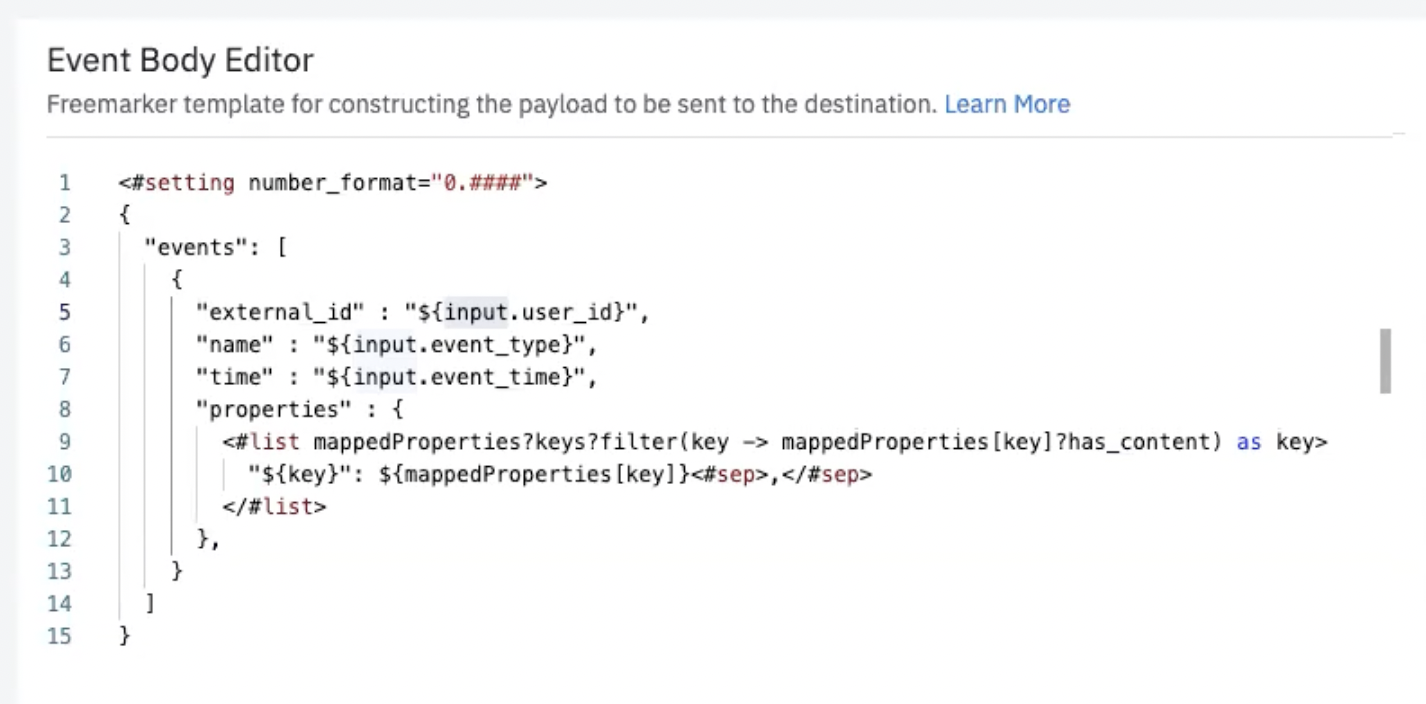
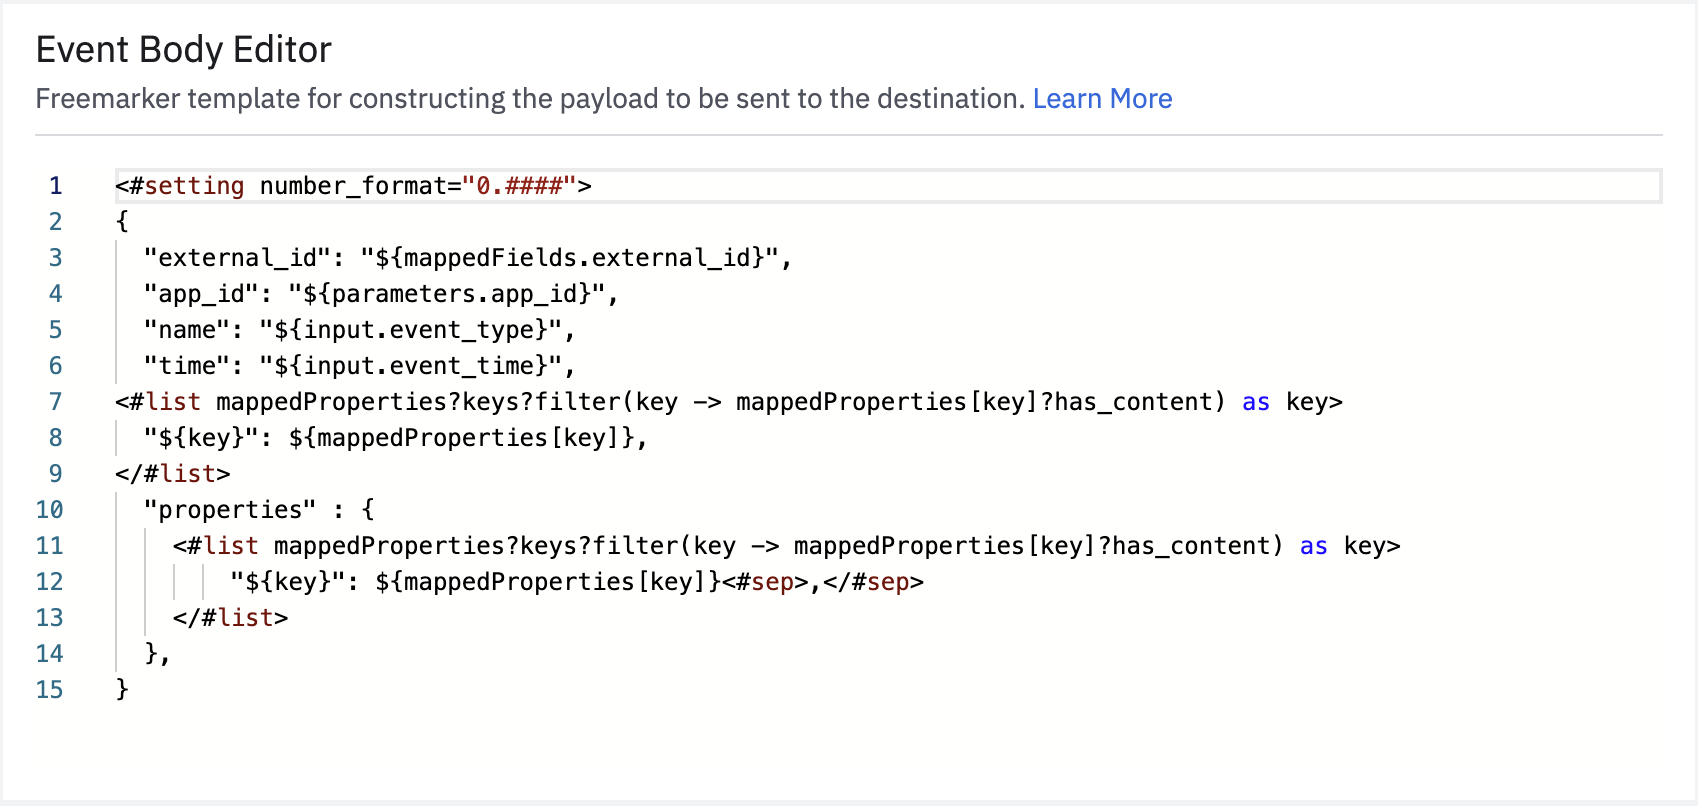
update SPF meaning, add Mapped Fields, update code examples

Changed region(s): [[0.0, 0.2188, 0.9257, 0.9062], [0.0, 0.0312, 0.7714, 0.1875], [0.9565, 0.4688, 0.9874, 0.5625]]

diff --git a/docs/partners/event-streaming-integration-guide.md b/docs/partners/event-streaming-integration-guide.md
@@ -1,6 +1,6 @@
 ---
 title: Create an Event Streaming Integration
-description: This guide walks through the basics of creating a event streaming integration with Amplitude. 
+description: This guide walks through the basics of creating a event streaming integration with Amplitude.
 template: guide-last.html
 status: new
 ---
@@ -13,19 +13,19 @@ This guide walks through the basics of creating your own Event Streaming tile in
 
 ### Supported features
 
-- **Event Forwarding:**  Forwarding Amplitude Track calls to a destination is called *event forwarding*. Amplitude forwards both the 'raw' event and merged or [transformed events](https://help.amplitude.com/hc/en-us/articles/5913315221915-Transformations-Retroactively-modify-your-event-data-structure). Amplitude also sends the `user_id`, `event_name`, and `created_at` to your destination.
-- **User Properties Types:** Amplitude sends all user, event, and group properties along with the event.
-- **Event Selective Property Forwarding:** Amplitude has fine-grain filtering options that allow you to choose which events to send based on selecting event types and property conditions.
+- **Event Forwarding:**  Forwarding Amplitude Track calls to a destination is named *event forwarding*. Amplitude forwards both the 'raw' event and merged or [transformed events](https://help.amplitude.com/hc/en-us/articles/5913315221915-Transformations-Retroactively-modify-your-event-data-structure). Amplitude also sends the `event_name` and `created_at` to your destination.
+- **Event Filtering:** Amplitude has fine-grain filtering options that allow the user to choose which events to send based on selecting event types and property conditions.
+- **Event Selective Property Forwarding:** The user can select which event, user, or group properties to include in the payload of forwarded events.
 - **Regular User Identify Forwarding (creating and updating a user):** Enable Identify Forwarding feature for your destination. This allows the destination to send users and their properties that are created under the Identify API in real time. See the [Identify documentation](../analytics/apis/identify-api) for more information.
+- **User Property Mapping** The user is able to select an Amplitude user property to map to a field in your destination. This also allows for custom user identifiers.
 
 ### Limitations
 
 - **User selective property forwarding:** Forwarding certain event, group, or user properties from an event based on an allow-list isn't supported.
-- **User identifiers:** The only currently supported user identifier is the Amplitude `user_id`.
-- **Mapping fields:** You can't currently map fields.
-- **Forwarding arrays or object type properties:** You can't currently arrays or object type properties. For example, you can't forward a property called cities which is an array of cities
+- **Forwarding arrays or object type properties:** You can't currently arrays or object type properties. For example, you can't forward a property called cities which is an array of cities.
 - **Change-based user Identify Forwarding:** Amplitude doesn't automatically generate and forward an identify event when there's a user property change during the event ingestion.
-- **Property Value Transformation:** You can't currently transform a property value or type to another value or type for example, Amplitude int `user_id` -> Destination string `user_id`, formatting such as encoding and datetime format transformations.
+- **Property Value Transformation:** You can't currently transform a property value or type to another value or type if the type of the original event isn't known.
+- **Selective Property Forwarding Type:** All custom properties forwarded by the user are currently sent as strings.
 - **OAuth Authentication:** Amplitude doesn't support OAuth, so partners need to generate you API key.
 - **Event Category name:** Amplitude doesn't send the Event Category name.
 
@@ -34,7 +34,7 @@ This guide walks through the basics of creating your own Event Streaming tile in
 1. **Freemarker:** Familiarize yourself with [Freemarker](https://freemarker.apache.org/) is the template that Amplitude uses to send events.
 2. **Rate limits:** Make sure your rate limits are as high as possible to minimize throttling. For example, Amplitude respects the rate limit that [Braze](../destinations/braze/) communicates: 50,000 requests per minute for event tracking. Amplitude has a retry mechanism with exponential backoff that tries 9 times over 4 hours. This process should resolve temporary throttling.
 3. **Event limits:** Make sure that your event size limit is flexible enough for customer use cases. 
-   
+
     ???example "Event limits example (click to expand)"
 
         For example, [Customer.io](../destinations/customerio/) events have the following limits:
@@ -42,7 +42,7 @@ This guide walks through the basics of creating your own Event Streaming tile in
         - Maximum length of Customer ID: 150 bytes
         - Maximum number of Unique Identify attributes: 300
         - Maximum size of event data: 100K bytes
-        
+
         For example, [Intercom](../destinations/intercom/) has a limit of 120 Event Types and 20 meta (which are event properties) per event types. Currently you must use the event filter to select the specific events they want to forward from Amplitude to Intercom.
 
 4. **Authentication method:** Amplitude doesn't support OAuth, so partners need to generate their API key.
@@ -50,14 +50,14 @@ This guide walks through the basics of creating your own Event Streaming tile in
 
 ## Integration setup
 
-The first step is to configure the integration tile that appears on the Destinations page in Amplitude. 
+The first step is to configure the integration tile that appears on the Destinations page in Amplitude.
 
 1. From the Integration Portal page (**Settings > Developer Portal**), click **Add New Destination**.
 2. Under **Select Destination Type**, choose **Event Streaming**.
 
-### Example setup modal 
+### Example setup modal
 
-To see an example of what a finished setup modal looks like in Amplitude, navigate to **Data Destinations** in Amplitude, and add any integration marked with Event Streaming. 
+To see an example of what a finished setup modal looks like in Amplitude, navigate to **Data Destinations** in Amplitude, and add any integration marked with Event Streaming.
 
 ## Configuration
 
@@ -87,6 +87,17 @@ You must add connection information before you can configure the specifics of yo
 This section allows you to define the parameters that can be used in the URL, headers and event body.
 
 - **Parameter Display Name:** This is fully customizable, so use something descriptive because this is the display name in Amplitude. For example, "REST API Endpoint & REST API Key".
+- **Parameter Name:** This is the ID that's used in the payload, URL, or header corresponding to this parameter.
+
+## Customize user properties mapping
+
+This section allows you to define fields in the payload that the user can populate with an Amplitude user property of their choice.
+For example, most destinations use a field here for their user identifier and set it as required.
+
+  ![screenshot of the customize user properties mapping section](../assets/images/partners/partner-customize-user-properties-mapping.png)
+
+- **Destination Property Name:** This acts as both the field name and display name.
+- **Required Checkbox:** If this is checked, the user can't forward events to your destination until they have configured this field.
 
 ## Customize events payload
 
@@ -112,28 +123,32 @@ Use the Customize Events Payload section to customize what's included in your pa
   "app_id": "some app id",
   "name": "test_event_type",
   "time": "2022-01-06T17:29:04Z",
+  "optional_property": "some Amplitude property",
+  "optional_property_again": "some Amplitude property again",
   "properties" : {
         "test_nested_property": "some nested property",
         "library": "some library",
         "user_property_1": "some user property value 1"
   },
-  "_update_existing_only": false // this is a Braze option
 },
 
 ```
 
 ## Event body editor
 
-This section is a Freemarker template that allows you to construct the payload that's sent to your destination. 
+This section is a Freemarker template that allows you to construct the payload that's sent to your destination.
+The template in the screenshot can correspond to the above payload depending on how the user configures their sync and based on the *Customize user properties mapping* section above.
 
 ![screenshot of the event body editor](../assets/images/partners/partner-event-body-editor.png)
 
 - **Input:** This object includes the forwarded event and its fields, and is enriched with the user’s other events and user properties. These fields aren't guaranteed and rely on the way each user has instrumented their events. Amplitude suggests keeping the input fields usage to minimum and just use the most common ones such as: `user_id`, `event_type`, `event_time`.
-- **MappedProperties:** A key-value pair of event or user properties that the customer might want to forward to your destination. For example, they may be tracking a property `email: example@example.com` and may want to forward that to your platform. These properties are only forwarded if the user selects them in the UI under **Specify event properties to send**.
+- **Parameters:** A key-value pair where the key is a *Parameter Name* defined in the **Create Parameters** section, and the value corresponds to the value that the user has provided when setting up their sync.
+- **MappedProperties:** A key-value pair of event, user, or group properties that the customer might want to forward to your destination. For example, they may be tracking a property `email: example@example.com` and may want to forward that to your platform. These properties are only forwarded if the user selects them in the UI under **Specify event properties to send**.
+- **MappedFields:** A key-value pair where the key is a *Destination Property Name* specified in the **Customize user properties mapping** section, and the value corresponds to the value of an Amplitude property that the user selects in the UI under the **Mappings** tab. For example, you may have specified `external_id` as a field, and the user might have selected the Amplitude property `email: example@example.com` in the UI. Then *MappedFields* is a key-value pair: `{external_id: example@example.com}`.
 
 ## Preview and test
 
-1. Before submitting your configuration for review, test the mock payload that you expect to receive from Amplitude. On the right side of the configuration page, follow these steps to preview and test your configuration. 
+1. Before submitting your configuration for review, test the mock payload that you expect to receive from Amplitude. On the right side of the configuration page, follow these steps to preview and test your configuration.
     Configure the test integration instance and click **Save**:
       - **API Endpoint:** `https://localhost:3000`
       - **REST API Key:** Enter the API key from the Amplitude project.
@@ -141,7 +156,7 @@ This section is a Freemarker template that allows you to construct the payload t
     !!!note
 
         If you would like to disable *Specify event properties to be sent (optional)*, send an email to integrations@amplitude.com.
-           
+
     ![screenshot of the event test payload page](../assets/images/partners/partner-test-tvent-payload.png)
 
 2. Click the **Test Payload** to generate a cURL command. Copy and paste this cURL command into your Command Line Interface (CLI).
